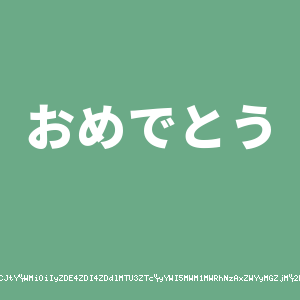
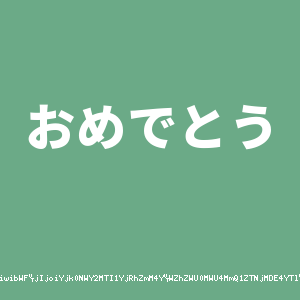
0828image_path(filename)をコントローラーに送る

diff --git a/app/Http/Controllers/Admin/TemplateController.php b/app/Http/Controllers/Admin/TemplateController.php
@@ -90,15 +90,21 @@ public function index(Request $request)
         logger($request);
         //画像を取得し、指定の大きさに切り取る
         $template_form = $request->all();
-        $card_img = Image::make(public_path('image/'. $template_form->filename))->crop(300, 300);
-
-        //タイトルを画像に表示させる
+        $card_img = Image::make(storage_path('app/public/image/'. $template_form['filename']))->crop(769, 562);
+        /*
+        $card_img = Image::make(public_path('image/'. $template_form['filename']))->crop(769, 562);
+        */
+        /*
+        $card_img = Image::make(public_path('image/dtH6o5FNxf8c1Z4d1RlKvlC2wfcNkBDRn5MnpfKm.png'))->crop(512, 256);
+        */
+        
+        //テキストを画像に表示させる
         //表示させる文字、表示場所をx/yで指定する
         $card_img->text($template_form['messes'], 150, 150, function($font) {
             $font->file(storage_path('app/fonts/GenShinGothic-Heavy.ttf'));
             $font->size(50);
             $font->align('center');
-            $font->color('#ffffff');
+            $font->color('#ff0000');
         }); //②
 
         //長めの文章を指定文字数で分割する
@@ -106,14 +112,14 @@ public function index(Request $request)
         $lines = self::mb_wordwrap($request, $max_len);
 
         //ディスクリプションを画像に表示させる
-        $card_img->text($lines, 284, 280, function($font) {
+        $card_img->text($lines, 500, 500, function($font) {
             $font->size(18);
             $font->align('center');
             $font->color('#ffffff');
         }); //②
 
         //storageに保存する(適宜書き換えてください)
-        $card_img->save(public_path('image/test7.png'));
+        $card_img->save(public_path('image/test10.png'));
         return redirect('admin/template/');
     }
     
